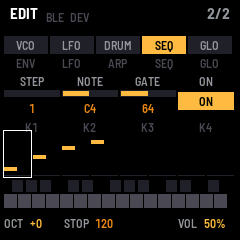
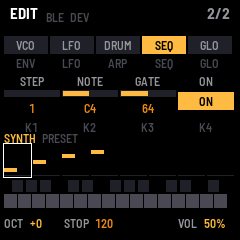
PRESET picks the part on SEQ; EDIT edits drums too
PRESET turns through SYNTH, BD, SN, HH on STEP and EDIT (the black part
keys on STEP still pick too). EDIT follows the part: the synth's piano
roll, or a drum's 16 slots with its hits as blocks; the cursor moves by
slot for a drum, K4 ON sets a hit, NOTE and GATE show '-'. The part's
name sits above the roll. Notes started for v0.4.1-alpha.

Claude-Session: https://claude.ai/code/session_017ui7VjCWMFsYUM5oLQjnQg

diff --git a/app/app.c b/app/app.c
@@ -152,7 +152,7 @@ static int pget(int pn)
     case P_EDSTEP: return ed_slot;
     case P_EDNOTE: return set.pat.note[ed_slot];
     case P_EDGATE: return set.pat.gate[ed_slot];
-    case P_EDON: return set.pat.on[SEQ_SYNTH] >> ed_slot & 1u;
+    case P_EDON: return set.pat.on[set.v[P_PART]] >> ed_slot & 1u;   /* (the part picked: PRESET on SEQ) */
     case P_BLEDEV: return btdev_pick();
     }
     return 0;
@@ -166,13 +166,19 @@ static void pset(int pn, int v)
     switch (pn) {
     case P_STEPS16: set.pat.steps16 = (uint8_t)v; break;
     case P_EDSTEP: ed_slot = (uint8_t)v; break;
-    case P_EDNOTE: set.pat.note[ed_slot] = (uint8_t)v; break;
-    case P_EDGATE: set.pat.gate[ed_slot] = (uint8_t)v; break;
+    case P_EDNOTE:                       /* (a drum has no note or gate: nothing) */
+        if (set.v[P_PART] == SEQ_SYNTH)
+            set.pat.note[ed_slot] = (uint8_t)v;
+        break;
+    case P_EDGATE:
+        if (set.v[P_PART] == SEQ_SYNTH)
+            set.pat.gate[ed_slot] = (uint8_t)v;
+        break;
     case P_EDON:
         if (v)
-            set.pat.on[SEQ_SYNTH] |= (uint16_t)(1u << ed_slot);
+            set.pat.on[set.v[P_PART]] |= (uint16_t)(1u << ed_slot);
         else
-            set.pat.on[SEQ_SYNTH] &= (uint16_t)~(1u << ed_slot);
+            set.pat.on[set.v[P_PART]] &= (uint16_t)~(1u << ed_slot);
         break;
     case P_BLEDEV: btdev_choose(v); break;
     }
@@ -517,7 +523,9 @@ static void param_text(int p, char *t)   /* a setting's value as the screen show
 {
     int v = pget(p);
     t[0] = 0;
-    if (PAR[p].nopt)
+    if ((p == P_EDNOTE || p == P_EDGATE) && set.v[P_PART] != SEQ_SYNTH)
+        text_cat(t, "-");                    /* (a drum's step: a hit, no note or gate) */
+    else if (PAR[p].nopt)
         text_cat(t, PAR[p].opt[v]);
     else if (p == P_EDNOTE)
         note_name(v, t);
@@ -826,18 +834,27 @@ static void multi_function(int w)
     }
 }
 
+/* a part picked (PRESET on SEQ, or its black key on STEP): a drum's heard, as the monotribe's part buttons */
+static void part_pick(int i)
+{
+    if (i != (int)set.v[P_PART]) {
+        set.v[P_PART] = (uint16_t)i;
+        if (i == SEQ_SYNTH && !set.pat.steps16)
+            ed_slot &= (uint8_t)~1u;         /* (the synth's cursor on a step) */
+    }
+    if (i != SEQ_SYNTH)
+        drum(i - SEQ_BD);
+    app_say("PART", PART_OPT[i]);
+}
+
 /* STEP: a key of the step row */
 static void step_key(uint32_t k, int w, int32_t note)
 {
     int part = set.v[P_PART], i, sl;
     if (w < 0) {                             /* the black keys: a part (a drum's heard), ACTIVE STEP, GATE TIME */
         for (i = 0; i < SEQ_NPART; i++)
-            if (PART_KEY[i] == k) {
-                set.v[P_PART] = (uint16_t)i;
-                if (i != SEQ_SYNTH)
-                    drum(i - SEQ_BD);
-                app_say("PART", PART_OPT[i]);
-            }
+            if (PART_KEY[i] == k)
+                part_pick(i);
         if (k == KEY_ACTIVE)
             app_say("ACTIVE STEP", "HOLD, PICK STEPS");
         else if (k == KEY_GATE)
@@ -910,7 +927,7 @@ static void key_press(uint32_t k, int32_t note)
     if (ui.page == PG_DRUMS && w < 0 && !rec_armed)   /* (DRUMS: the other black keys nothing) */
         return;
     synth_key(k, note, touch_vel(k));
-    if (ui.page == PG_EDIT && !rec_armed) {  /* EDIT: the note into the step, and on to the next */
+    if (ui.page == PG_EDIT && !rec_armed && set.v[P_PART] == SEQ_SYNTH) {   /* EDIT: the note in, on to the next */
         set.pat.note[ed_slot] = (uint8_t)note;
         set.pat.on[SEQ_SYNTH] |= (uint16_t)(1u << ed_slot);
         set_dirty = 1;
@@ -920,10 +937,11 @@ static void key_press(uint32_t k, int32_t note)
 }
 
 /* the step cursor (SELECT on SEQ, K1 on EDIT): a step at a time (a slot in 16-step mode), round the 8 or 16 */
+static int cursor_half(void) { return set.v[P_PART] != SEQ_SYNTH || set.pat.steps16; }   /* (half-steps too) */
 static void cursor_step(int dir)
 {
-    int n = set.pat.steps16 ? 1 : 2;
-    ed_slot = (uint8_t)(((ed_slot & (set.pat.steps16 ? 15 : 14)) + n * dir + SEQ_SLOTS) % SEQ_SLOTS);
+    int n = cursor_half() ? 1 : 2;
+    ed_slot = (uint8_t)(((ed_slot & (cursor_half() ? 15 : 14)) + n * dir + SEQ_SLOTS) % SEQ_SLOTS);
     step_say("", ed_slot);
 }
 
@@ -1024,6 +1042,8 @@ static void input(void)
                 switch_turn(P_WAVE, e);
         } else if (k == EN_ALGO && ui.page == PG_LFO) {   /* ALGO: the LFO's WAVE on LFO */
             switch_turn(P_LWAVE, e);
+        } else if (k == EN_PRESET && PAGE[ui.page].button == B_SEQ) {   /* PRESET: the part, on SEQ */
+            part_pick(clamp(set.v[P_PART] + (e > 0 ? 1 : -1), 0, SEQ_NPART - 1));
         } else if (k == EN_K1 && PAGE[ui.page].p[0] == P_EDSTEP) {   /* EDIT: K1 moves the step cursor too */
             cursor_step(e > 0 ? 1 : -1);
         } else if (k >= EN_K1 && PAGE[ui.page].p[k - EN_K1] >= 0) {
@@ -1175,11 +1195,13 @@ static void draw(void)
         }
     }
     if (ui.page == PG_EDIT) {
-        /* the piano roll: the synth's steps (8, or 16), each note at its pitch and as long as its gate; an active
-         * step's floor marked, the cursor boxed, the playhead white */
-        int n = set.pat.steps16 ? 16 : 8, c, lo = 127, hi = 0, span, base, sp = seq_slot(SEQ_SYNTH);
+        /* the piano roll: the synth's steps (8, or 16), each note at its pitch and as long as its gate; a drum's 16
+         * slots (steps and their halves), each hit a block. An active step's floor marked, the cursor boxed, the
+         * playhead white; the part (PRESET) at the top left */
+        int part = set.v[P_PART], drm = part != SEQ_SYNTH, n = drm || set.pat.steps16 ? 16 : 8;
+        int c, lo = 127, hi = 0, span, base, sp = seq_slot(part);
         int32_t cw = 232 / n;
-        for (c = 0; c < n; c++) {
+        for (c = 0; c < n && !drm; c++) {
             int sl = set.pat.steps16 ? c : 2 * c;
             if (set.pat.on[SEQ_SYNTH] >> sl & 1u) {
                 lo = set.pat.note[sl] < lo ? set.pat.note[sl] : lo;
@@ -1191,22 +1213,30 @@ static void draw(void)
         span = hi - lo < 12 ? 12 : hi - lo;
         base = lo - (span - (hi - lo)) / 2;
         for (c = 0; c < n; c++) {
-            int sl = set.pat.steps16 ? c : 2 * c;
+            int sl = n == 16 ? c : 2 * c, now_on = sp >= 0 && (n == 16 ? sp : sp & ~1) == sl;
             int32_t x = 4 + (int32_t)c * cw;
-            if (set.pat.active[SEQ_SYNTH] >> (sl / 2) & 1u)
+            if (set.pat.active[part] >> (sl / 2) & 1u)
                 cv_rect(x, 139, cw - 2, 1, C_LINE);
-            if (set.pat.on[SEQ_SYNTH] >> sl & 1u) {
-                int g = set.pat.gate[sl];
-                int32_t y = 134 - (set.pat.note[sl] - base) * 36 / span;
-                int32_t w = g >= SEQ_GATE_TIE ? cw : (cw - 2) * (14 + 986 * g / 127) / 1000;
-                cv_rect(x, y, w < 2 ? 2 : w, 4, (sp >= 0 && (set.pat.steps16 ? sp : sp & ~1) == sl) ? C_WHITE : C_HI);
+            if (set.pat.on[part] >> sl & 1u) {
+                if (drm) {
+                    cv_rect(x, 118, cw - 2, 10, now_on ? C_WHITE : (sl & 1) ? C_AMB : C_HI);
+                } else {
+                    int g = set.pat.gate[sl];
+                    int32_t y = 134 - (set.pat.note[sl] - base) * 24 / span;
+                    int32_t w = g >= SEQ_GATE_TIE ? cw : (cw - 2) * (14 + 986 * g / 127) / 1000;
+                    cv_rect(x, y, w < 2 ? 2 : w, 4, now_on ? C_WHITE : C_HI);
+                }
             }
-            if (sl == (set.pat.steps16 ? ed_slot : ed_slot & ~1)) {   /* the cursor */
-                cv_rect(x - 1, 94, cw, 1, C_WHITE);
+            if (sl == (n == 16 ? ed_slot : ed_slot & ~1)) {   /* the cursor */
+                cv_rect(x - 1, 107, cw, 1, C_WHITE);
                 cv_rect(x - 1, 141, cw, 1, C_WHITE);
-                cv_rect(x - 1, 94, 1, 48, C_WHITE);
-                cv_rect(x + cw - 2, 94, 1, 48, C_WHITE);
+                cv_rect(x - 1, 107, 1, 35, C_WHITE);
+                cv_rect(x + cw - 2, 107, 1, 35, C_WHITE);
             }
+        }
+        {
+            int32_t x = cv_text(4, 95, &FONT_XS, PART_OPT[part], C_HI);
+            cv_text(x + 6, 95, &FONT_XS, "PRESET", C_DIM);
         }
     } else if (ui.page == PG_SEQ) {
         /* the pattern: a row a part (the part edited lit), 16 slots, the steps in pairs: a slot that plays filled,

diff --git a/app/docs/MANUAL.md b/app/docs/MANUAL.md
@@ -80,6 +80,7 @@ Three controls do the same job on every page:
 | OCT− · OCT+ | The octave, in six steps from −3 to +2, as the monotribe's six octave positions. |
 | SELECT | The VCO's WAVE: saw, triangle or square. On the SEQ pages, it moves the step cursor instead. |
 | ALGO | On the LFO page, the LFO's WAVE: saw, triangle, square or S&H. |
+| PRESET | On the SEQ pages, the part you're editing: SYNTH, BD, SN or HH. |
 
 ![The VCO page, ENV 1/2](img/screen-vco.png "The VCO page") ![The LFO page](img/screen-lfo.png "The LFO page")
 
@@ -114,7 +115,7 @@ Three controls do the same job on every page:
 | MASTER | Sets the volume. |
 | SAVE | Saves every setting, the octave and the pattern. SAVE lights while there's something to save. On the DEVICES page, SAVE connects to a Bluetooth MIDI device instead. |
 | PLAY · REC | Start and stop the sequencer; record into it. See The sequencer. |
-| SEL · EDIT · HOME · FX | Show their names, and do nothing else yet. |
+| SEL · EDIT · HOME · FX | Show their names, and do nothing else yet. PRESET does nothing off the SEQ pages. |
 
 ### The drums
 
@@ -142,7 +143,7 @@ lights are the step LEDs. The black keys are the buttons beside them.
 | White keys F3 to F4 (the first eight) | Steps 1–8 | Switch the part's step on or off. A synth step switched on takes the last note you played. |
 | White keys G4 to G5 (the next eight) | Steps 9–16 | With 16-STEP SYNTH, the synth's steps 9 to 16. |
 | F♯3 · G♯3 · A♯3 | BD · SN · HH | Pick the part, and play its drum. Hold one and press a step for a hit half-way through that step. |
-| C♯4 | SYNTH | Pick the synth part. |
+| C♯4 | SYNTH | Pick the synth part. PRESET picks the part too. |
 | D♯4 | ACTIVE STEP | Hold it and press steps to switch them on or off for playback. One step always stays on. |
 | F♯4 | GATE TIME | Hold it and touch the white keys to set gate times; stopped, it's the multi-function key. See Setting gate times. |
 
@@ -180,16 +181,19 @@ When the sequencer is stopped, hold GATE TIME (F♯4) and press a step key, as o
 
 ![EDIT: the synth's steps as a piano roll, the cursor on step 1](img/screen-edit.png "The EDIT page")
 
-EDIT (SEQ, 2/2) sets the synth's steps exactly, which the monotribe can only do by playing them in. The screen shows
-the synth's steps as a piano roll: each note at its pitch, as long as its gate. The box is the step cursor.
+EDIT (SEQ, 2/2) sets one part's steps exactly, which the monotribe can only do by playing them in. Turn PRESET to
+pick the part; its name shows above the steps. For the synth, the screen shows a piano roll: each note at its pitch,
+as long as its gate. For a drum, it shows all 16 of its slots, each step and its half, with a block for each hit.
+The box is the step cursor.
 
 | Control | What it does |
 | --- | --- |
-| SELECT or K1 STEP | Moves the cursor a step at a time (a half-step with 16-STEP SYNTH). |
-| Keys | Play a note to put it in the cursor's step and switch that step on. The cursor moves on to the next step, so you can type in a melody. |
-| K2 NOTE | The step's note, a semitone a click. |
-| K3 GATE | The step's gate time, from 1.4 % of the step to 100 %, then TIE. |
-| K4 ON | Whether the step plays. |
+| PRESET | The part: SYNTH, BD, SN or HH. |
+| SELECT or K1 STEP | Moves the cursor a step at a time (a half-step with 16-STEP SYNTH, and always for a drum: 3+ is half-way through step 3). |
+| Keys | For the synth, play a note to put it in the cursor's step and switch that step on. The cursor moves on to the next step, so you can type in a melody. For a drum, the keys just play the synth. |
+| K2 NOTE | The synth step's note, a semitone a click. A drum shows -. |
+| K3 GATE | The synth step's gate time, from 1.4 % of the step to 100 %, then TIE. A drum shows -. |
+| K4 ON | Whether the step plays: for a drum, whether it hits. |
 
 #### Recording
 

diff --git a/CLAUDE.md b/CLAUDE.md
@@ -48,8 +48,9 @@ RANGE; RANGE WIDE/NARROW/KEY stored, only KEY plays yet) and VCF VCA 2/2 (CUTOFF
 MODE); ARP DRUMS (RHYTHM, BD/SN/HH DECAY; F#-G#-A# black keys are pads); SEQ STEP 1/2 (TEMPO SWING STEPS GATE) and
 EDIT 2/2 (STEP NOTE GATE ON, piano roll); GLO MIDI 1/3 (SYNTH CH DRUM CH SYNC CLOCK OUT), GLOBAL 2/3 (BLE MIDI, KEY
 LIGHT, GLOW), DEVICES 3/3 (K1 picks, SAVE connects/lets go; scans while the page is up). Constant everywhere: OCT-/+
-the octave; SELECT the VCO WAVE (on SEQ pages the step cursor ed_slot); ALGO the LFO WAVE on LFO. SEL, EDIT, HOME,
-FX, PRESET free (the user will assign SEL later). Settings are PAR[] (knob 0..127 or switch), saved as "FMT7" with
+the octave; SELECT the VCO WAVE (on SEQ pages the step cursor ed_slot); ALGO the LFO WAVE on LFO; PRESET the part on SEQ
+pages (part_pick; also the black part keys on STEP). EDIT edits the picked part: synth piano roll, or a drum's 16
+slots (cursor by slot, K4 ON its hits, NOTE/GATE '-'). SEL, EDIT, HOME, FX free (the user will assign SEL later). Settings are PAR[] (knob 0..127 or switch), saved as "FMT7" with
 the pattern. pget/pset reach pattern-backed settings (STEPS, EDIT's STEP/NOTE/GATE/ON) and the BLE device pick (NSAVED).
 Sequencer (0.3, UI 0.4): app/seq/seq.c (o2), tests/host/seq_test.c, app/tests/seq.txt. 8 steps x 2 slots, parts
 SYNTH/BD/SN/HH, per-part active steps, gate per synth slot (127 tie), 16-step synth, swing, 96 ppqn ticks in the

diff --git a/app/site/quickstart.md b/app/site/quickstart.md
@@ -36,8 +36,8 @@ shows which one, such as VCF VCA 2/2.
 | GLOBAL 2/3 (GLO) | BLE MIDI | KEY LIGHT | GLOW | |
 | DEVICES 3/3 (GLO) | DEVICE | | | |
 
-On every page, OCT− and OCT+ set the octave and SELECT the VCO's wave (on SEQ, it moves the step cursor). On LFO,
-ALGO sets the LFO's wave.
+On every page, OCT− and OCT+ set the octave and SELECT the VCO's wave. On the SEQ pages, SELECT moves the step cursor
+and PRESET picks the part (SYNTH, BD, SN, HH). On LFO, ALGO sets the LFO's wave.
 
 | Do this | And |
 | --- | --- |

diff --git a/docs/releases/v0.4.1-alpha.md b/docs/releases/v0.4.1-alpha.md
@@ -1,0 +1,6 @@
+**Fixes after 0.4-alpha.**
+
+- The header shows the page you're on (VCF VCA, STEP, MIDI...) where FMTRIBE was, so the labels aren't crowded.
+- On the SEQ pages, PRESET picks the part: SYNTH, BD, SN or HH. The black part keys on STEP still work too.
+- EDIT edits the picked part. For a drum it shows its 16 slots, each step and its half, and K4 ON sets each hit;
+  SELECT moves through the half-steps too.
